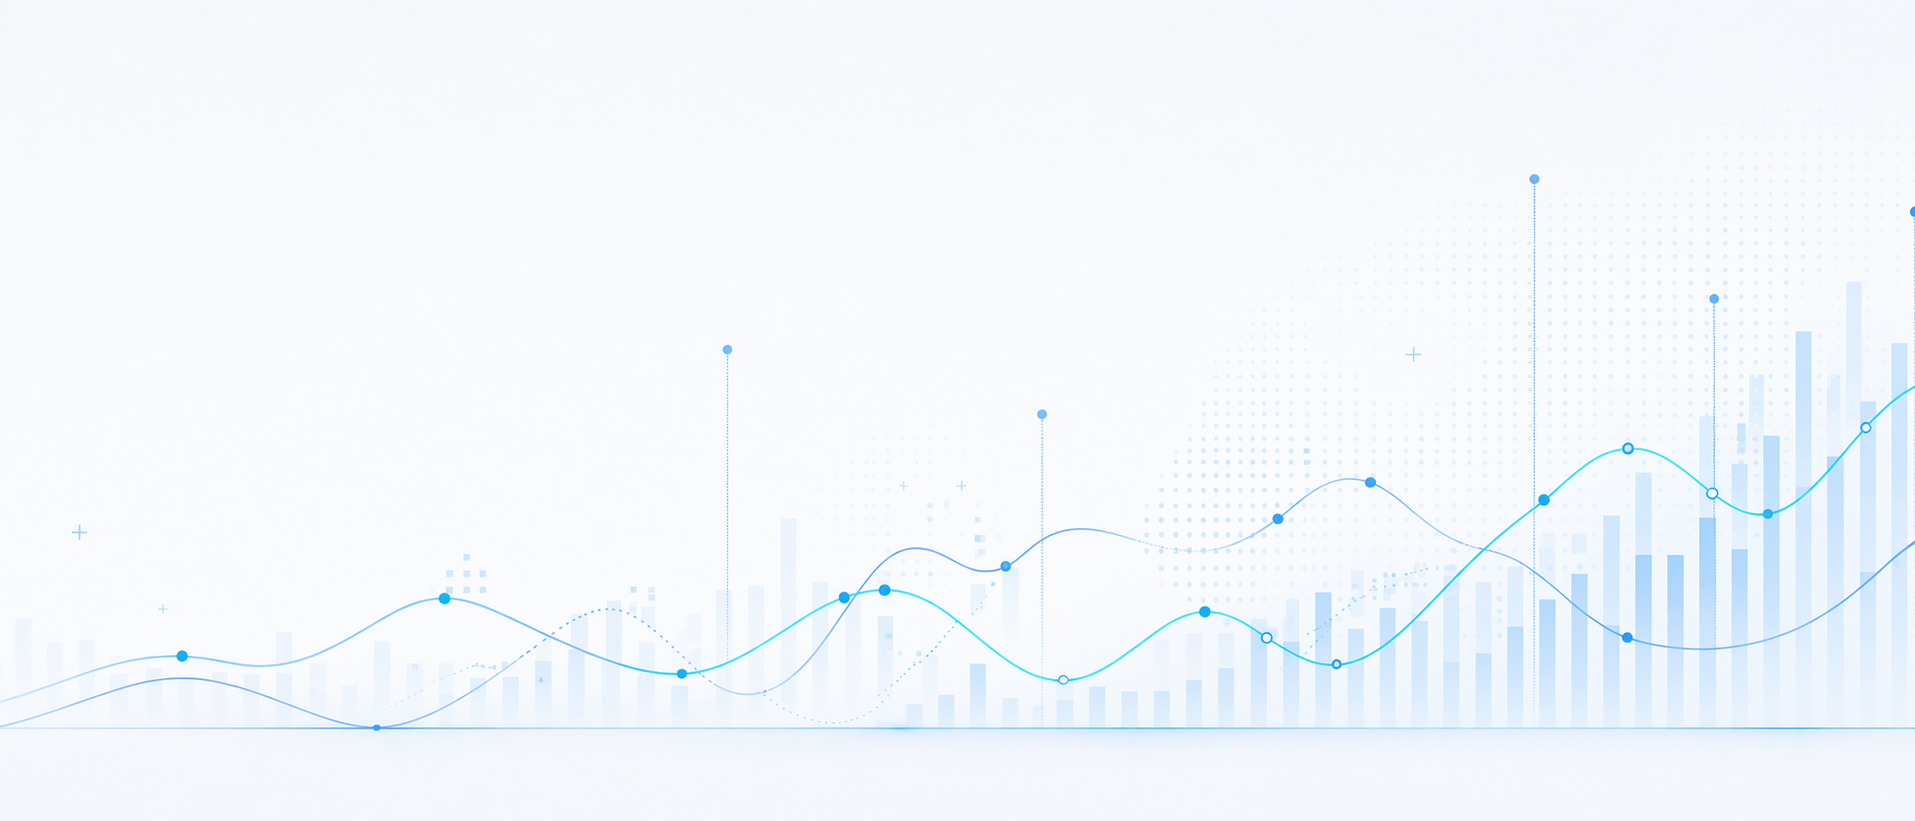
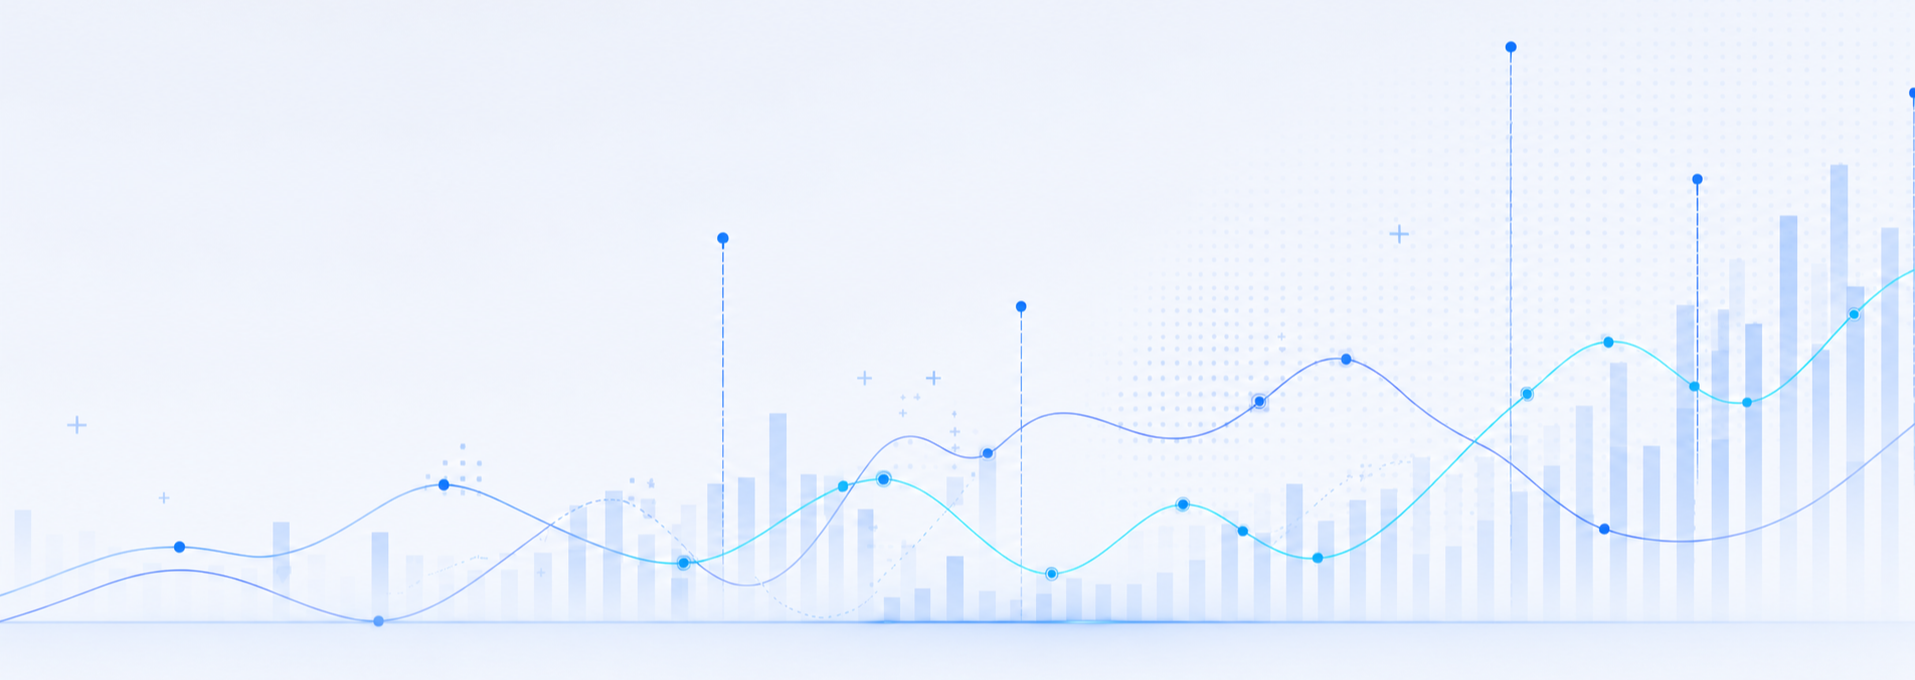
fix: 提交已完成的界面细节优化与阶段文档
阶段：
- Feature Optimization / checkpoint

背景：
- 工作区中存在一组已完成但未提交的界面与文档优化改动
- 需要先形成独立检查点，再继续处理新的首页布局与项目树拖拽问题

修改：
- 更新首页浅色/深色背景资源
- 补充与修正 phase1、phase4、phase5、phase7、phase8 任务文档
- 修正 analysis/data/extension_panel/project_tree_delegate 的局部界面与交互细节

验证：
- 运行 py_compile 检查 analysis_page、data_page、extension_panel、project_tree_delegate
- 运行 focused pytest：ui_smoke、settings_page_refresh、delegate/extension_panel 相关用例

后续：
- 继续排查首页空状态布局问题
- 继续排查项目树拖拽移动节点回归并编写后续阶段方案文档

diff --git a/ui/widgets/project_tree_delegate.py b/ui/widgets/project_tree_delegate.py
@@ -36,19 +36,9 @@ class ProjectTreeWrapAnywhereDelegate(TreeItemDelegate):
 
         painter.setRenderHints(QPainter.RenderHint.Antialiasing | QPainter.RenderHint.TextAntialiasing)
         item_option.text = ""
+        super().paint(painter, item_option, index)
+
         style = item_option.widget.style() if item_option.widget is not None else QApplication.style()
-        style.drawControl(QStyle.ControlElement.CE_ItemViewItem, item_option, painter, item_option.widget)
-
-        if index.data(Qt.ItemDataRole.CheckStateRole) is not None:
-            self._drawCheckBox(painter, item_option, index)
-
-        if item_option.state & (QStyle.StateFlag.State_Selected | QStyle.StateFlag.State_MouseOver):
-            painter.save()
-            painter.setPen(Qt.PenStyle.NoPen)
-            self._drawBackground(painter, item_option, index)
-            self._drawIndicator(painter, item_option, index)
-            painter.restore()
-
         text_rect = style.subElementRect(QStyle.SubElement.SE_ItemViewItemText, item_option, item_option.widget)
         if not text_rect.isValid() or text_rect.width() <= 0:
             return
@@ -87,28 +77,12 @@ class ProjectTreeWrapAnywhereDelegate(TreeItemDelegate):
 
     def _drawCheckBox(self, painter, item_option, index):
         """Draw checkbox state for the item."""
-        check_state = index.data(Qt.ItemDataRole.CheckStateRole)
-        if check_state is None:
-            return
-        opt = QStyleOptionViewItem(item_option)
-        opt.rect = QRectF(opt.rect).toRect()
-        style = opt.widget.style() if opt.widget is not None else QApplication.style()
-        style.drawControl(QStyle.ControlElement.CE_ItemViewItem, opt, painter, opt.widget)
+        super()._drawCheckBox(painter, item_option, index)
 
     def _drawBackground(self, painter, item_option, index):
         """Draw selection or hover background."""
-        opt = QStyleOptionViewItem(item_option)
-        opt.rect = QRectF(opt.rect).toRect()
-        if item_option.state & QStyle.StateFlag.State_Selected:
-            color = item_option.palette.color(QPalette.ColorRole.Highlight)
-            painter.setBrush(color)
-            painter.drawRoundedRect(opt.rect.adjusted(2, 2, -2, -2), 4, 4)
+        super()._drawBackground(painter, item_option, index)
 
     def _drawIndicator(self, painter, item_option, index):
         """Draw focus indicator."""
-        if item_option.state & QStyle.StateFlag.State_HasFocus:
-            opt = QStyleOptionViewItem(item_option)
-            opt.rect = QRectF(opt.rect).toRect()
-            color = item_option.palette.color(QPalette.ColorRole.Highlight)
-            painter.setPen(color)
-            painter.drawRoundedRect(opt.rect.adjusted(2, 2, -2, -2), 4, 4)
+        super()._drawIndicator(painter, item_option, index)

diff --git a/ui/pages/analysis_page.py b/ui/pages/analysis_page.py
@@ -420,6 +420,12 @@ class AnalysisPage(ExtensionPanelShellMixin, QWidget):
         result_actions.setContentsMargins(0, 0, 0, 0)
         result_actions.setSpacing(6)
         self._analysis_result_actions_layout = result_actions
+        self._rerun_result_btn = PushButton(FIF.PLAY, "复跑此配置")
+        self._rerun_result_btn.clicked.connect(self._rerun_current_analysis)
+        apply_button_metrics(self._rerun_result_btn, min_width=WORKBENCH_BUTTON_MIN_WIDTH)
+        self._rerun_result_btn.setSizePolicy(QSizePolicy.Policy.Expanding, QSizePolicy.Policy.Fixed)
+        result_actions.addWidget(self._rerun_result_btn, 1)
+
         self._save_result_btn = PushButton(FIF.SAVE, "保存分析结果")
         self._save_result_btn.clicked.connect(self._save_result)
         apply_button_metrics(self._save_result_btn, min_width=WORKBENCH_BUTTON_MIN_WIDTH)
@@ -1312,6 +1318,7 @@ class AnalysisPage(ExtensionPanelShellMixin, QWidget):
         else:
             self._set_analysis_status("调整输入或参数后，点击“运行分析”生成新的结果标签。")
         self._refresh_result_action_buttons()
+        self._update_result_action_buttons()
         self._render_report_preview()
 
     def _refresh_result_action_buttons(self) -> None:
@@ -1330,6 +1337,7 @@ class AnalysisPage(ExtensionPanelShellMixin, QWidget):
         if view is None:
             return
         self._sync_state_from_analysis_view(view)
+        self._update_result_action_buttons()
 
     def _on_analysis_tab_close_requested(self, index: int) -> None:
         if index <= 0:
@@ -1354,6 +1362,26 @@ class AnalysisPage(ExtensionPanelShellMixin, QWidget):
     def _set_analysis_status(self, message: str) -> None:
         if hasattr(self, "_analysis_status_label"):
             self._analysis_status_label.setText(message)
+
+    def _update_result_action_buttons(self) -> None:
+        if not hasattr(self, "_rerun_result_btn"):
+            return
+        view = self._current_analysis_view() if hasattr(self, "_analysis_tabs") else None
+        can_rerun = bool(isinstance(view, dict) and (view.get("inputs") or view.get("selected")))
+        self._rerun_result_btn.setEnabled(can_rerun)
+
+    def _rerun_current_analysis(self) -> None:
+        view = self._current_analysis_view()
+        if not isinstance(view, dict):
+            return
+        inputs = [dict(item) for item in (view.get("inputs") or []) if isinstance(item, dict)]
+        if not inputs:
+            InfoBar.warning("提示", "当前结果没有可复跑的输入", parent=self, position=InfoBarPosition.TOP)
+            return
+        self._sync_state_from_analysis_view(view)
+        self._update_result_action_buttons()
+        self._set_analysis_status("已恢复当前配置，正在重新运行分析…")
+        self._run_analysis()
 
     def _current_analysis_view(self) -> Optional[Dict[str, Any]]:
         if not hasattr(self, "_analysis_tabs") or not self._analysis_tab_keys:
@@ -1920,6 +1948,7 @@ class AnalysisPage(ExtensionPanelShellMixin, QWidget):
             self._result = None
             self._set_analysis_status("调整输入或参数后，点击“运行分析”生成新的结果标签。")
             self._render_report_preview()
+        self._update_result_action_buttons()
 
     def _draw_result(self, t: str, selected: list, r: dict, figure=None, canvas=None, normalized: Optional[Dict[str, Any]] = None):
         figure = self._figure if figure is None else figure

diff --git a/ui/widgets/extension_panel.py b/ui/widgets/extension_panel.py
@@ -186,6 +186,10 @@ class ExtensionConfigPanel(QWidget):
         self._description_section_label = make_section_label("扩展说明", card)
         layout.addWidget(self._description_section_label)
         layout.addWidget(self._description_label)
+        self._meta_label = CaptionLabel("", card)
+        self._meta_label.setWordWrap(True)
+        self._meta_label.setStyleSheet(secondary_text_style_sheet(font_size=11))
+        layout.addWidget(self._meta_label)
 
         self._add_section_divider(layout, card)
         self._config_section_label = make_section_label("配置", card)
@@ -321,6 +325,7 @@ class ExtensionConfigPanel(QWidget):
         self._selector_row_widget.setVisible(not is_help_only)
         self._description_section_label.setVisible(is_help_only)
         self._description_label.setVisible(is_full or is_help_only)
+        self._meta_label.setVisible(is_full or is_help_only)
         self._config_section_label.setVisible(is_full and self._config_entry_visible)
         self._config_row_widget.setVisible((not is_help_only) and (self._config_entry_visible or is_compact))
         self._config_row_divider.setVisible((not is_help_only) and (self._config_entry_visible or is_compact))
@@ -601,6 +606,7 @@ class ExtensionConfigPanel(QWidget):
         else:
             self._current_entry_label.setText("当前扩展: 当前页没有可用扩展")
             self._description_label.setText("当前页没有可用扩展")
+        self._meta_label.setText("")
         self._config_help_label.setText("保留 {} 使用默认参数。")
         self._editor.set_fields([], {})
         self._editor.setEnabled(False)
@@ -660,6 +666,23 @@ class ExtensionConfigPanel(QWidget):
         self._description_label.setText(
             info.get("description") or ("在左侧选择扩展后，这里会显示扩展说明。" if self._panel_mode == "help_only" else "暂无说明")
         )
+        meta_parts: list[str] = []
+        if info.get("api_version_label"):
+            meta_parts.append(info["api_version_label"])
+        if info.get("min_app_version_label"):
+            meta_parts.append(info["min_app_version_label"])
+        if info.get("tested_range_label"):
+            meta_parts.append(info["tested_range_label"])
+        capability_parts: list[str] = []
+        if info.get("capabilities_label"):
+            capability_parts.append(info["capabilities_label"])
+        if info.get("authority_label"):
+            capability_parts.append(info["authority_label"])
+        if info.get("auth_fields_label"):
+            capability_parts.append(info["auth_fields_label"])
+        if capability_parts:
+            meta_parts.append("能力/接管: " + "；".join(capability_parts))
+        self._meta_label.setText(" | ".join(meta_parts))
 
     def _on_selection_changed(self, idx: int) -> None:
         if idx < 0 or idx >= len(self._entries):

diff --git a/ui/pages/data_page.py b/ui/pages/data_page.py
@@ -2944,6 +2944,21 @@ class DataPage(QWidget):
             meta_lines.append(f"ID: {info['type_id']}")
         if info.get("version_label"):
             meta_lines.append(f"版本: {info['version_label']}")
+        if info.get("api_version_label"):
+            meta_lines.append(info["api_version_label"])
+        if info.get("min_app_version_label"):
+            meta_lines.append(info["min_app_version_label"])
+        if info.get("tested_range_label"):
+            meta_lines.append(info["tested_range_label"])
+        capability_parts: list[str] = []
+        if info.get("capabilities_label"):
+            capability_parts.append(info["capabilities_label"])
+        if info.get("authority_label"):
+            capability_parts.append(info["authority_label"])
+        if info.get("auth_fields_label"):
+            capability_parts.append(info["auth_fields_label"])
+        if capability_parts:
+            meta_lines.append("能力/接管: " + "；".join(capability_parts))
         if info.get("description"):
             meta_lines.append(f"描述: {info['description']}")
         return {

diff --git a/docs/feature-optimization/tasks/phase1_task3.md b/docs/feature-optimization/tasks/phase1_task3.md
@@ -1,0 +1,19 @@
+# Phase 1 Task 3: 项目树选中指示器恢复
+
+## 目标
+
+修复项目树在 wrap-anywhere 文本换行模式下的选中指示器失效问题，保证：
+
+- 选中态仍然可见
+- 焦点态不会误替代选中态
+- 长文本换行不破坏原有树视图交互语义
+
+## 修改方案
+
+1. 调整 `ui/widgets/project_tree_delegate.py`
+   - 保留 wrap-anywhere 文本绘制
+   - 复用基类的选中背景/指示器绘制语义
+   - 避免自定义背景完全覆盖原始选中态表现
+2. 做最小窄测
+   - 构造项目树并切换长名称显示模式
+   - 检查选中态、焦点态、hover 态是否可见

diff --git a/docs/feature-optimization/tasks/phase5_final.md b/docs/feature-optimization/tasks/phase5_final.md
@@ -1,5 +1,16 @@
 # Phase 5 Final: ChartPage 大曲线异步渲染 + AnalysisPage 全部异步 + 进度反馈
 
-1. ChartPage: 大曲线(>10000 点)重绘分两步 — 先 decimated 预览，再后台渲染
-2. AnalysisPage: 全部异步 (移除 50000 阈值)，使用 BackgroundTask 带进度
-3. 进度反馈: 状态栏显示 running/completed/failed text
+## 目标
+
+把大输入与长耗时绘制从同步阻塞改为渐进反馈，减少 UI 卡顿。
+
+## 实施
+
+1. `ui/pages/chart_page.py`
+   - 大曲线(>10000 点)先显示 decimated 预览
+   - 后续补充完整渲染阶段与过期结果保护
+2. `ui/pages/analysis_page.py`
+   - 去掉固定阈值分支，分析任务统一走 BackgroundTask
+   - 进度回调更新状态栏
+3. `core/task_runner.py`
+   - 保持跨页面共享任务壳层语义稳定

diff --git a/docs/feature-optimization/tasks/phase4_final.md b/docs/feature-optimization/tasks/phase4_final.md
@@ -1,4 +1,16 @@
 # Phase 4 Final: Extension 元数据 UI 消费层
 
-1. `extension_entry_display_info()` 输出新增元数据摘要 (api_version, capabilities, authority)
-2. 扩展信息面板显示兼容性/能力/authority 标签
+## 目标
+
+把扩展协议新增的兼容性/能力/authority 元数据真正暴露到 UI 消费层，而不是只停留在 core helper 中。
+
+## 实施
+
+1. `core/extension_api.py`
+   - 保留新增元数据摘要输出
+   - 统一生成可展示的兼容性/能力/authority 标签
+2. `ui/widgets/extension_panel.py`
+   - 显示兼容性/能力/authority 标签
+   - 让 help-only / full 模式都能看到这些标签
+3. `ui/pages/data_page.py`
+   - 在扩展预览说明中补充元数据摘要

diff --git a/docs/feature-optimization/tasks/phase7_final.md b/docs/feature-optimization/tasks/phase7_final.md
@@ -1,4 +1,13 @@
 # Phase 7 Final: GlobalAssets 导入/导出 + 默认值
 
-1. global_assets 新增 export_to_json / import_from_json
-2. 项目树右键菜单扩展配置加入"导出"/"设为默认"
+## 目标
+
+把全局资产的导入/导出和默认值操作收口到统一入口，减少页面间重复逻辑。
+
+## 实施
+
+1. `core/global_assets.py`
+   - 提供全局资产 JSON 导入/导出
+   - 提供扩展配置默认值切换辅助
+2. `ui/widgets/project_tree_menu_commands.py`
+   - 扩展配置菜单增加“导出”“设为默认”

diff --git a/docs/feature-optimization/tasks/phase8_final.md b/docs/feature-optimization/tasks/phase8_final.md
@@ -1,4 +1,13 @@
 # Phase 8 Final: 分析结果复跑 + 批量摘要
 
-1. AnalysisPage: 已保存的结果显示"复跑此配置"按钮
-2. ProcessPage: 批量导出摘要显示每项输入名称
+## 目标
+
+让分析结果具备更清晰的复跑入口，让批量导出更可读。
+
+## 实施
+
+1. `ui/pages/analysis_page.py`
+   - 已保存结果提供“复跑此配置”按钮
+   - 复跑时恢复输入/参数状态后直接重新执行
+2. `ui/pages/process_page.py`
+   - 批量导出向导展示每项输入名称